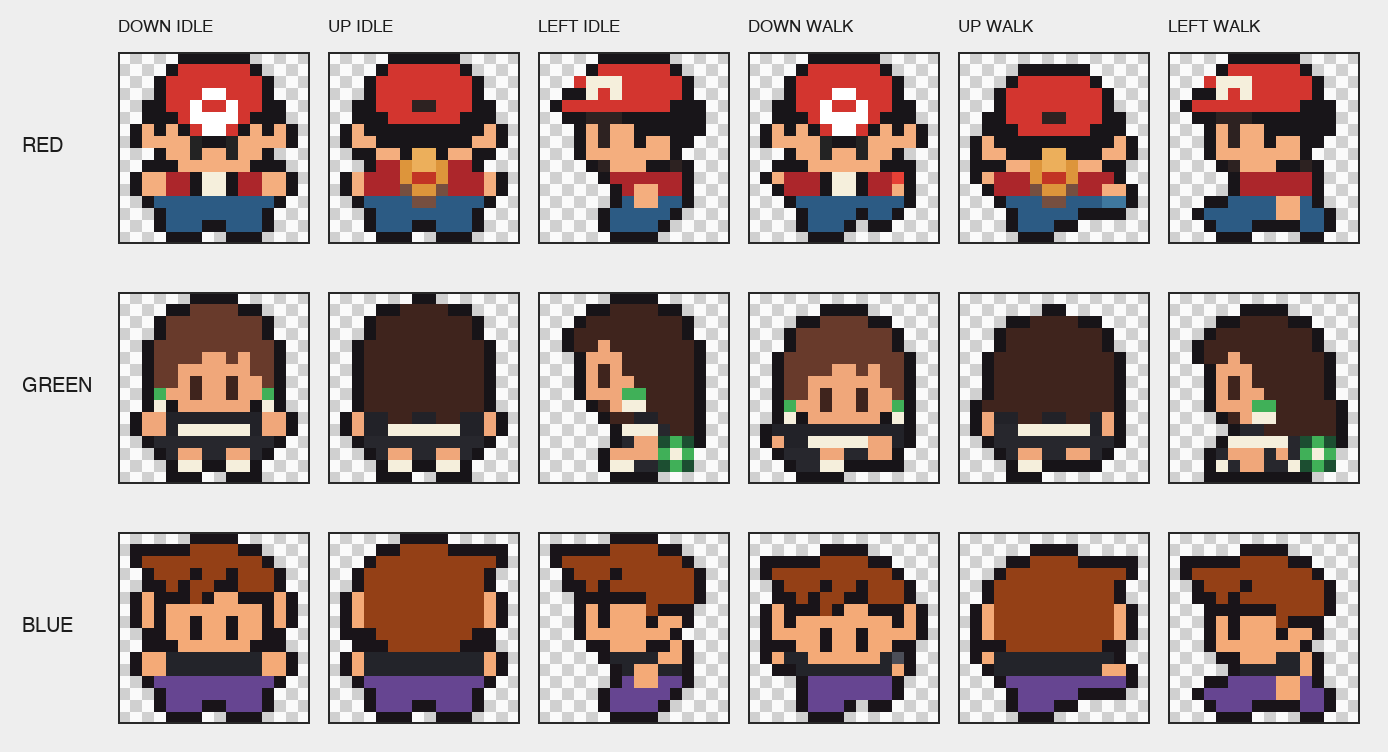
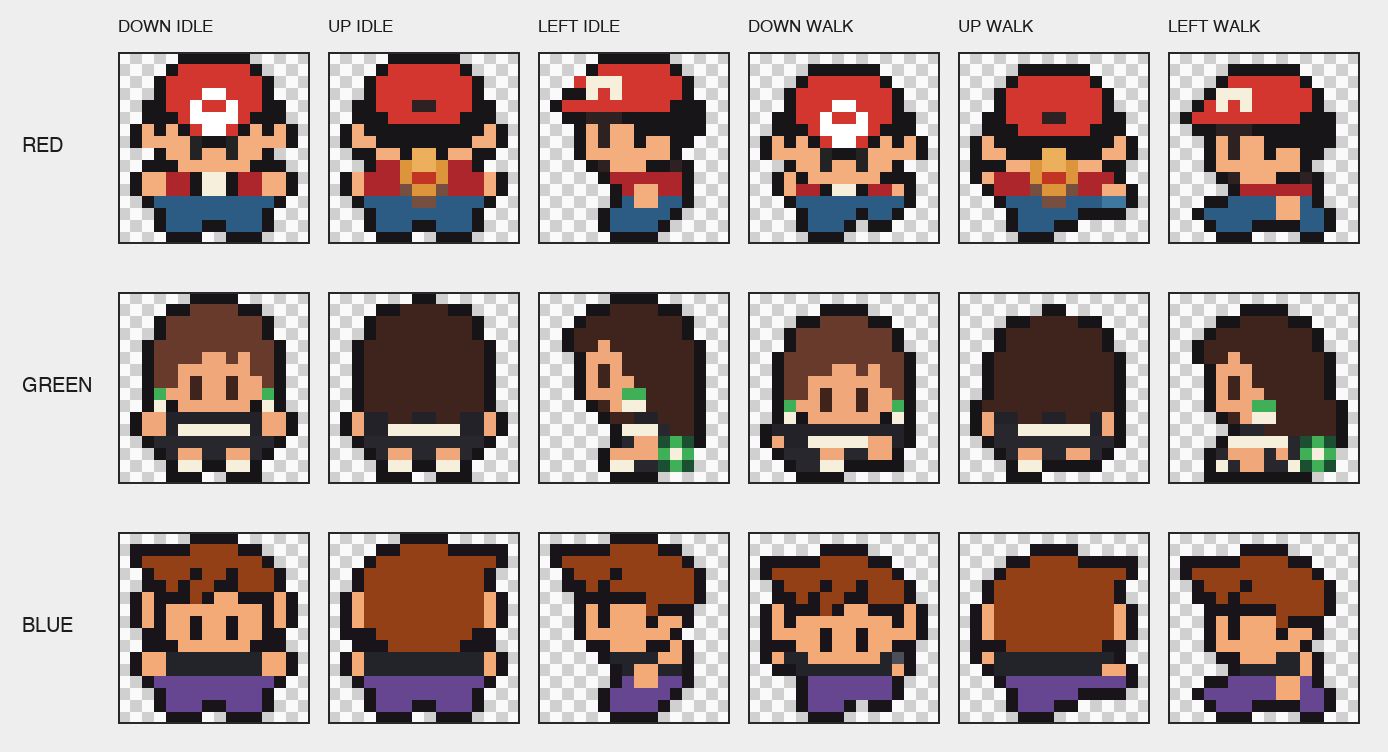
fix(6.7): correct Red walking gait phase

Changed region(s): [[0.5267, 0.0612, 0.6816, 0.2753], [0.8365, 0.0612, 0.9604, 0.2447]]

diff --git a/tests/crystal_character_assets_test.py b/tests/crystal_character_assets_test.py
@@ -25,10 +25,10 @@ EXPECTED = {
 # work and must update this fingerprint explicitly; ordinary feature/bugfix
 # work is not allowed to silently alter a selected, intro, battle, walking,
 # bike, fishing or throw sprite.
[2 lines of base64/hex data omitted]
 
 PRIMARY_SHA256 = {
[4 lines of base64/hex data omitted]
 }

diff --git a/docs/CHARACTER_ASSET_AUTHORING_DE.md b/docs/CHARACTER_ASSET_AUTHORING_DE.md
@@ -1,6 +1,6 @@
 # Charakter-Assets: verbindlicher Stand und Authoring-Regeln
 
-Stand: 18. August 2026. Dieses Dokument hält den vom Maintainer gelieferten
+Stand: 19. August 2026. Dieses Dokument hält den vom Maintainer gelieferten
 Stand von Red, Blue und Green/Casey fest. Für Walking-Sprites
 sind die Dateien unter
 `assets/sources/characters/crystal_chars/approved_walk/` die verbindlichen
@@ -58,7 +58,9 @@ versehen. Vorschauen verwenden ausschließlich Nearest-Neighbour-Skalierung.
 
 ### Red
 
-- Vom Maintainer am 18. August gelieferter Crystal-Walking-Master.
+- Vom Maintainer am 19. August korrigierter Crystal-Walking-Master. Die drei
+  Idle-Silhouetten beginnen bei lokalem Y=0, die zugehörigen Laufphasen bei
+  Y=1; dadurch bewegen sich insbesondere Front- und Linksphase wieder lesbar.
 - Rot-weiße Kappe, rote Jacke, blaue Hose und gelber Rucksack.
 - Eigene native 16×16-Geometrie in allen sechs Frames.
 

diff --git a/CHANGELOG.md b/CHANGELOG.md
@@ -4,6 +4,15 @@ All notable changes to this project are documented in this file.
 
 ## [Unreleased]
 
+### Fixed
+
+- Red's Crystal walking cycle now uses the maintainer-supplied corrected
+  down/left gait phases instead of keeping those silhouettes on the idle
+  Y-position. The approved master, runtime copy and review board remain native
+  16×16 nearest-neighbour art; Green, Blue and every non-walking surface are
+  unchanged.
+
+
 ## [6.5.10] - 2026-08-22
 
 ### Fixed
